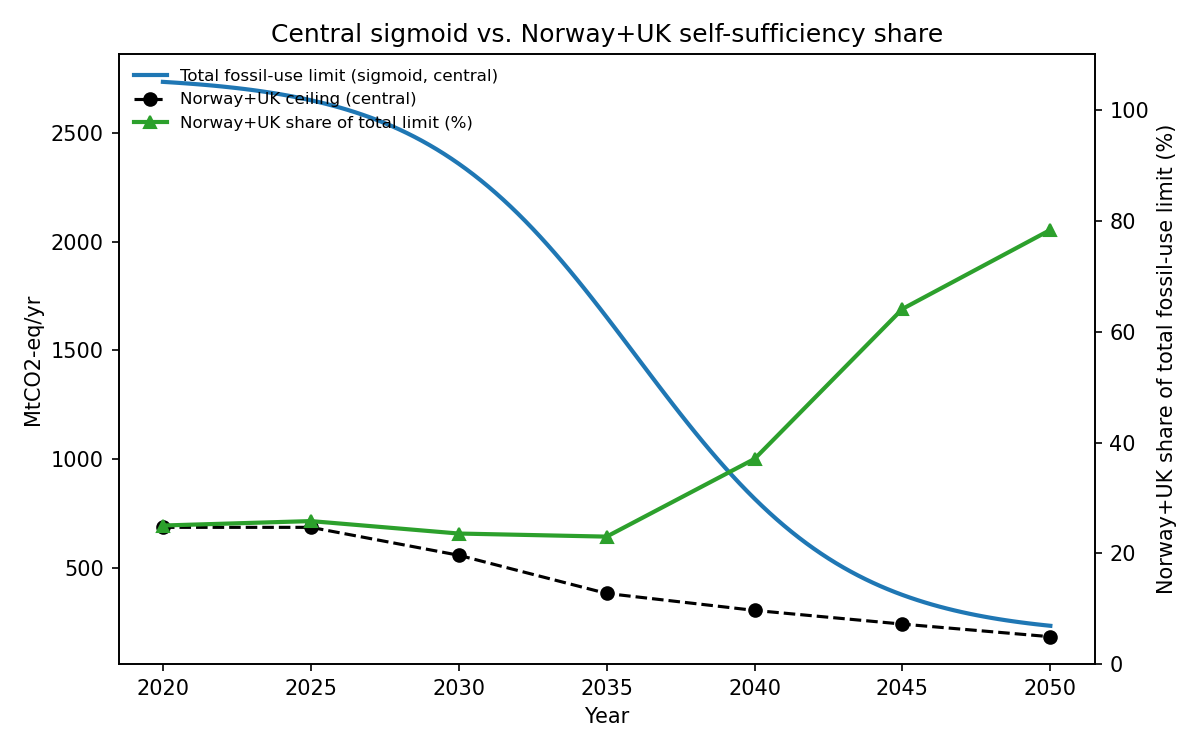
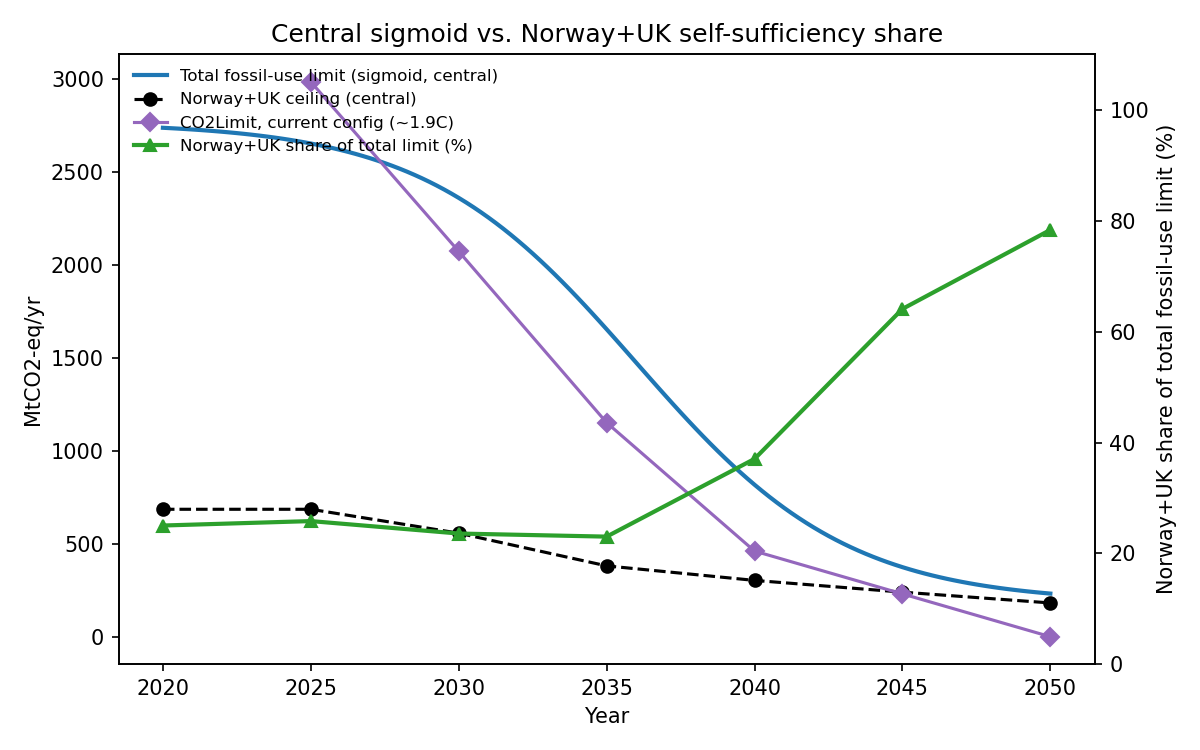
Add current CO2Limit (~1.9C pathway) line to both fossil-supply plots
Overlays the model's actual net, CCS-credited CO2Limit trajectory
(2983/2072/1151/460/230/0 MtCO2, 2025-2050 -- from this config's
co2_budget fractions of 1990 levels) on the sigmoid-variants and
ratio plots, for direct visual comparison against the gross fossil-supply
curves and the Norway+UK ceiling.

diff --git a/text_docs/scripts/build_fossil_supply_security.py b/text_docs/scripts/build_fossil_supply_security.py
@@ -129,6 +129,13 @@ existing = {2025: 2600, 2030: 1378, 2035: 456, 2040: 129, 2045: 103, 2050: 78}
 ax1.plot(list(existing), list(existing.values()), "s:", color="tab:red",
           lw=1.5, label="Existing fossil_limit_values (medium scenario)")
 
+# Current CO2Limit trajectory (net, CCS-credited), from this config's
+# co2_budget fractions of 1990 levels -- corresponds to a ~1.9C global
+# temperature-increase pathway (per user's own model calibration).
+CO2LIMIT_1P9C = {2025: 2983.3, 2030: 2071.8, 2035: 1151.0, 2040: 460.4, 2045: 230.2, 2050: 0.0}
+ax1.plot(list(CO2LIMIT_1P9C), list(CO2LIMIT_1P9C.values()), "D-", color="tab:purple",
+          lw=1.5, label="CO2Limit, current config (~1.9C)")
+
 ax1.axhline(FLOOR_2050, color="grey", lw=0.8, ls=":")
 ax1.set_xlabel("Year")
 ax1.set_ylabel("Total fossil-use limit (MtCO2-eq/yr)")
@@ -150,6 +157,8 @@ ax1.plot(years_fine, [sigmoid(y, **central) for y in years_fine], color="tab:blu
           label="Total fossil-use limit (sigmoid, central)")
 ax1.plot(ceiling_years, [ceiling[y] for y in ceiling_years], "o--", color="black", lw=1.5,
           label="Norway+UK ceiling (central)")
+ax1.plot(list(CO2LIMIT_1P9C), list(CO2LIMIT_1P9C.values()), "D-", color="tab:purple",
+          lw=1.5, label="CO2Limit, current config (~1.9C)")
 ax1.set_xlabel("Year")
 ax1.set_ylabel("MtCO2-eq/yr")
 ax2 = ax1.twinx()
